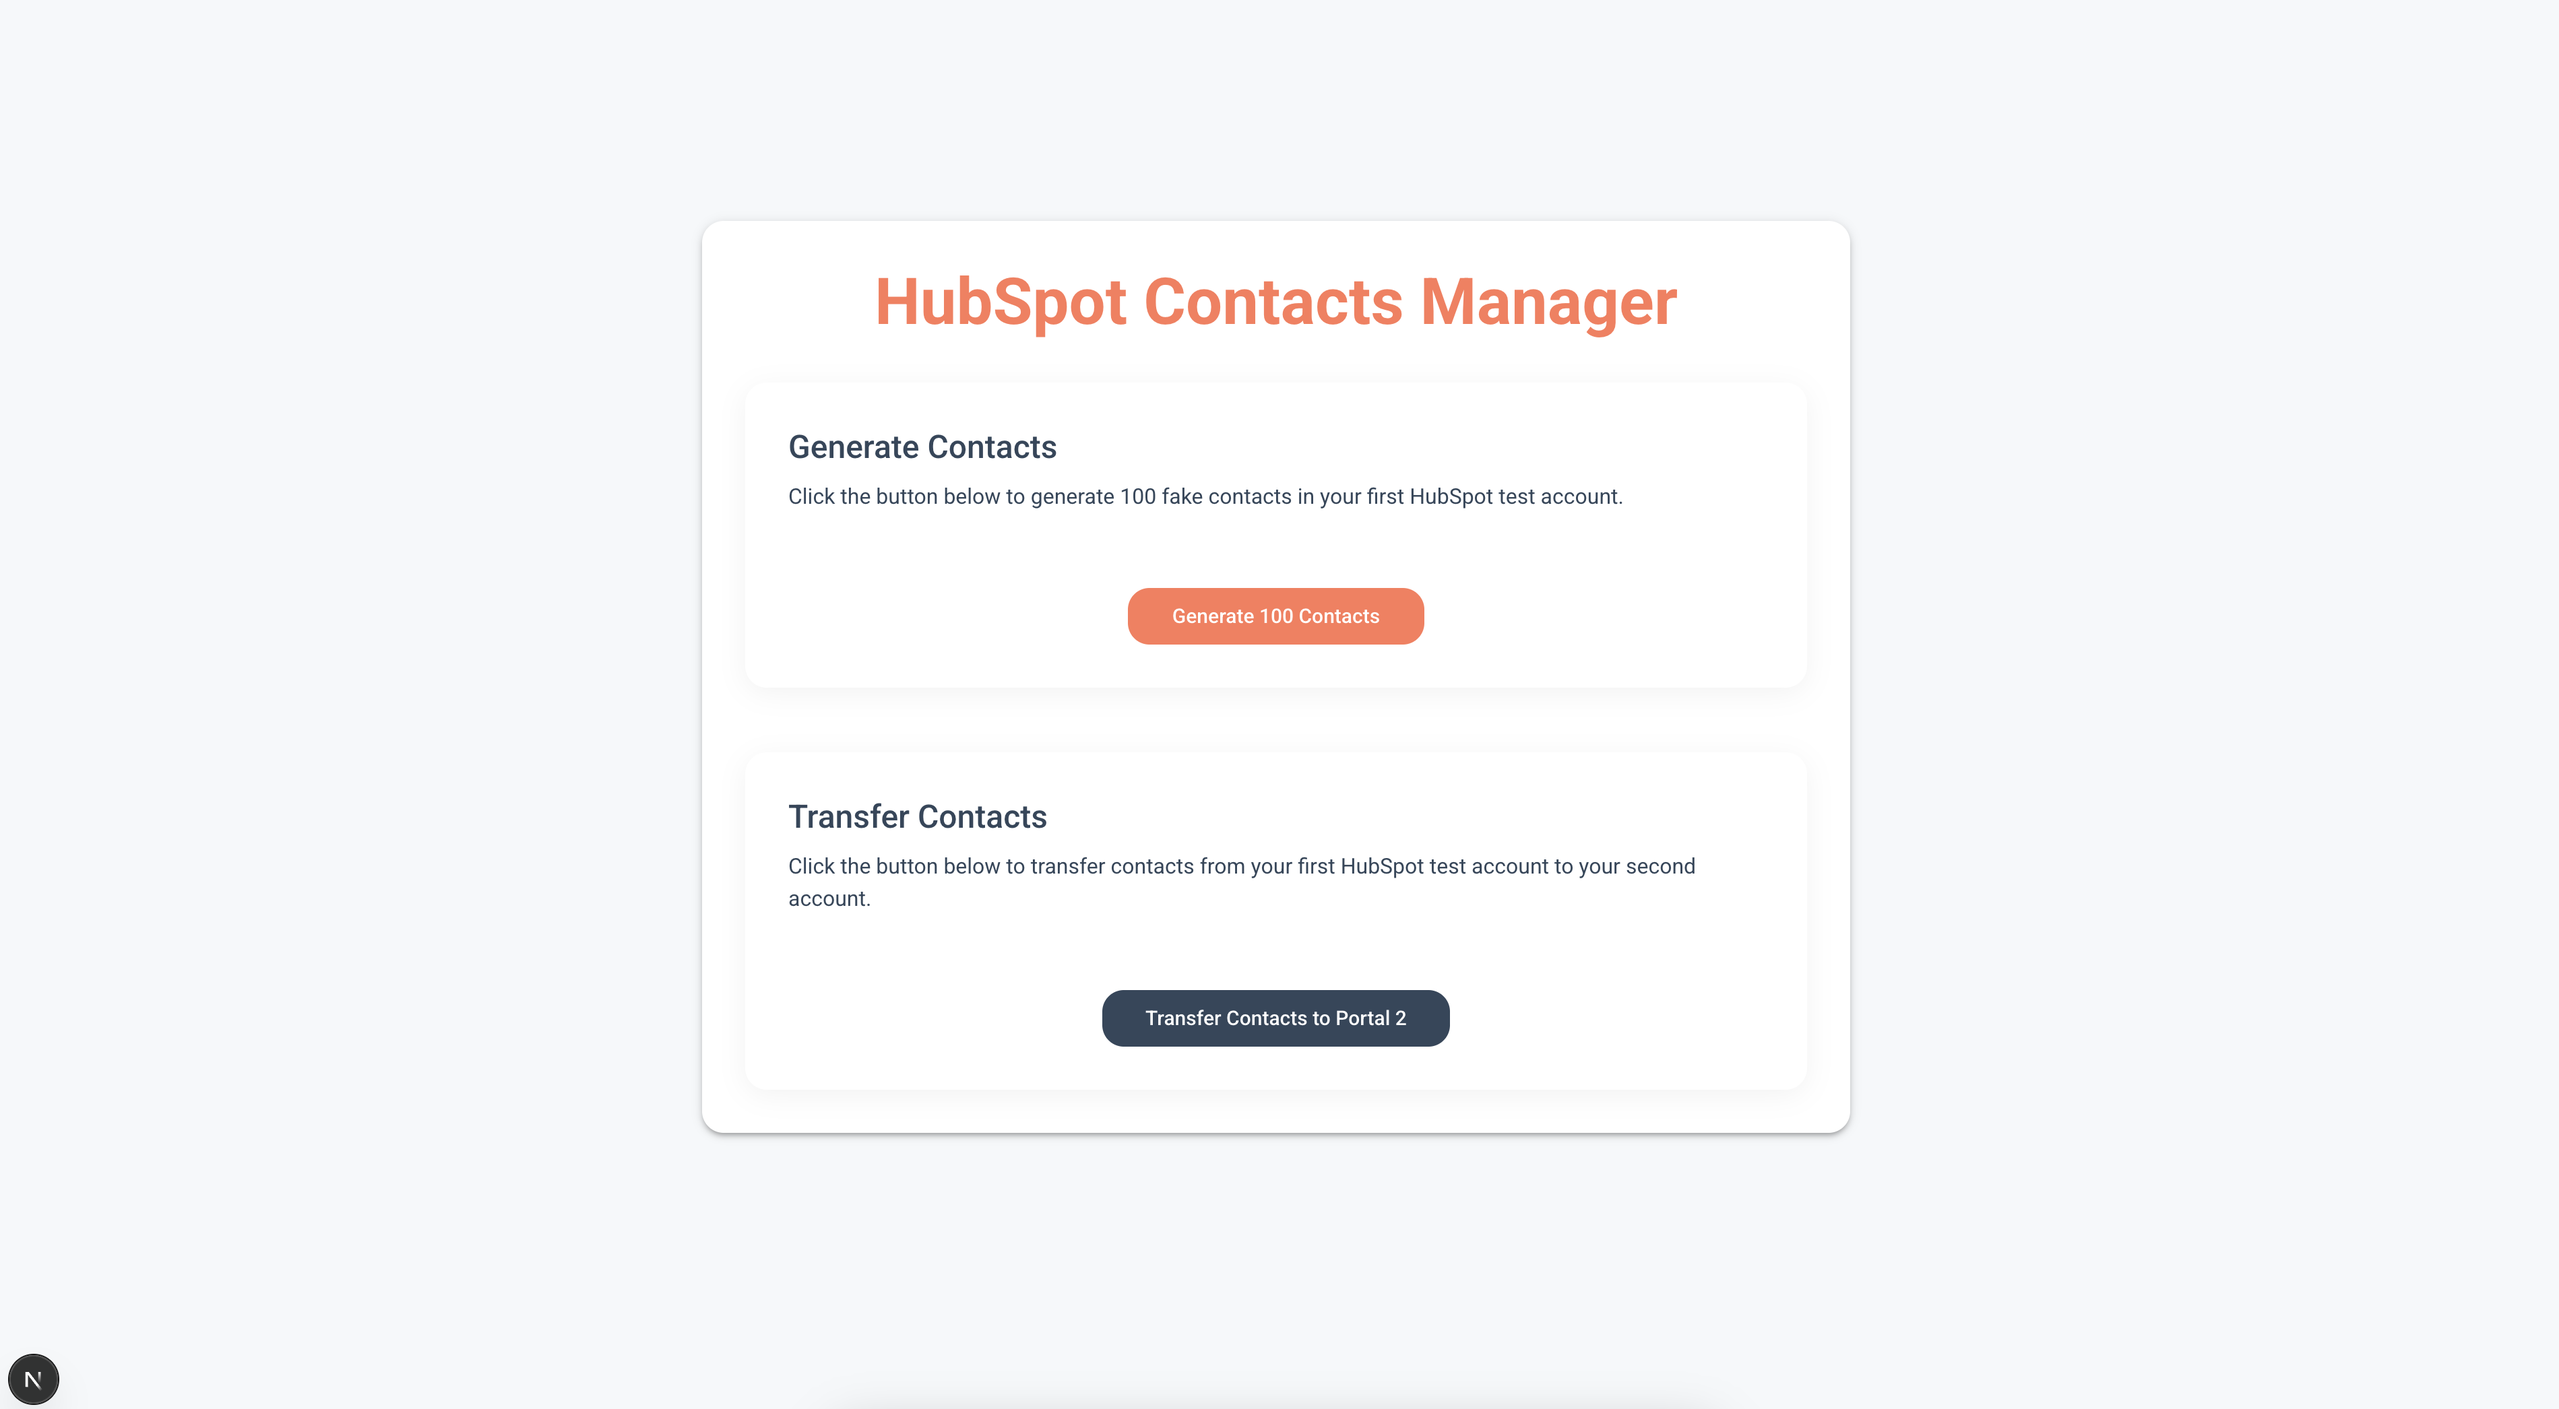
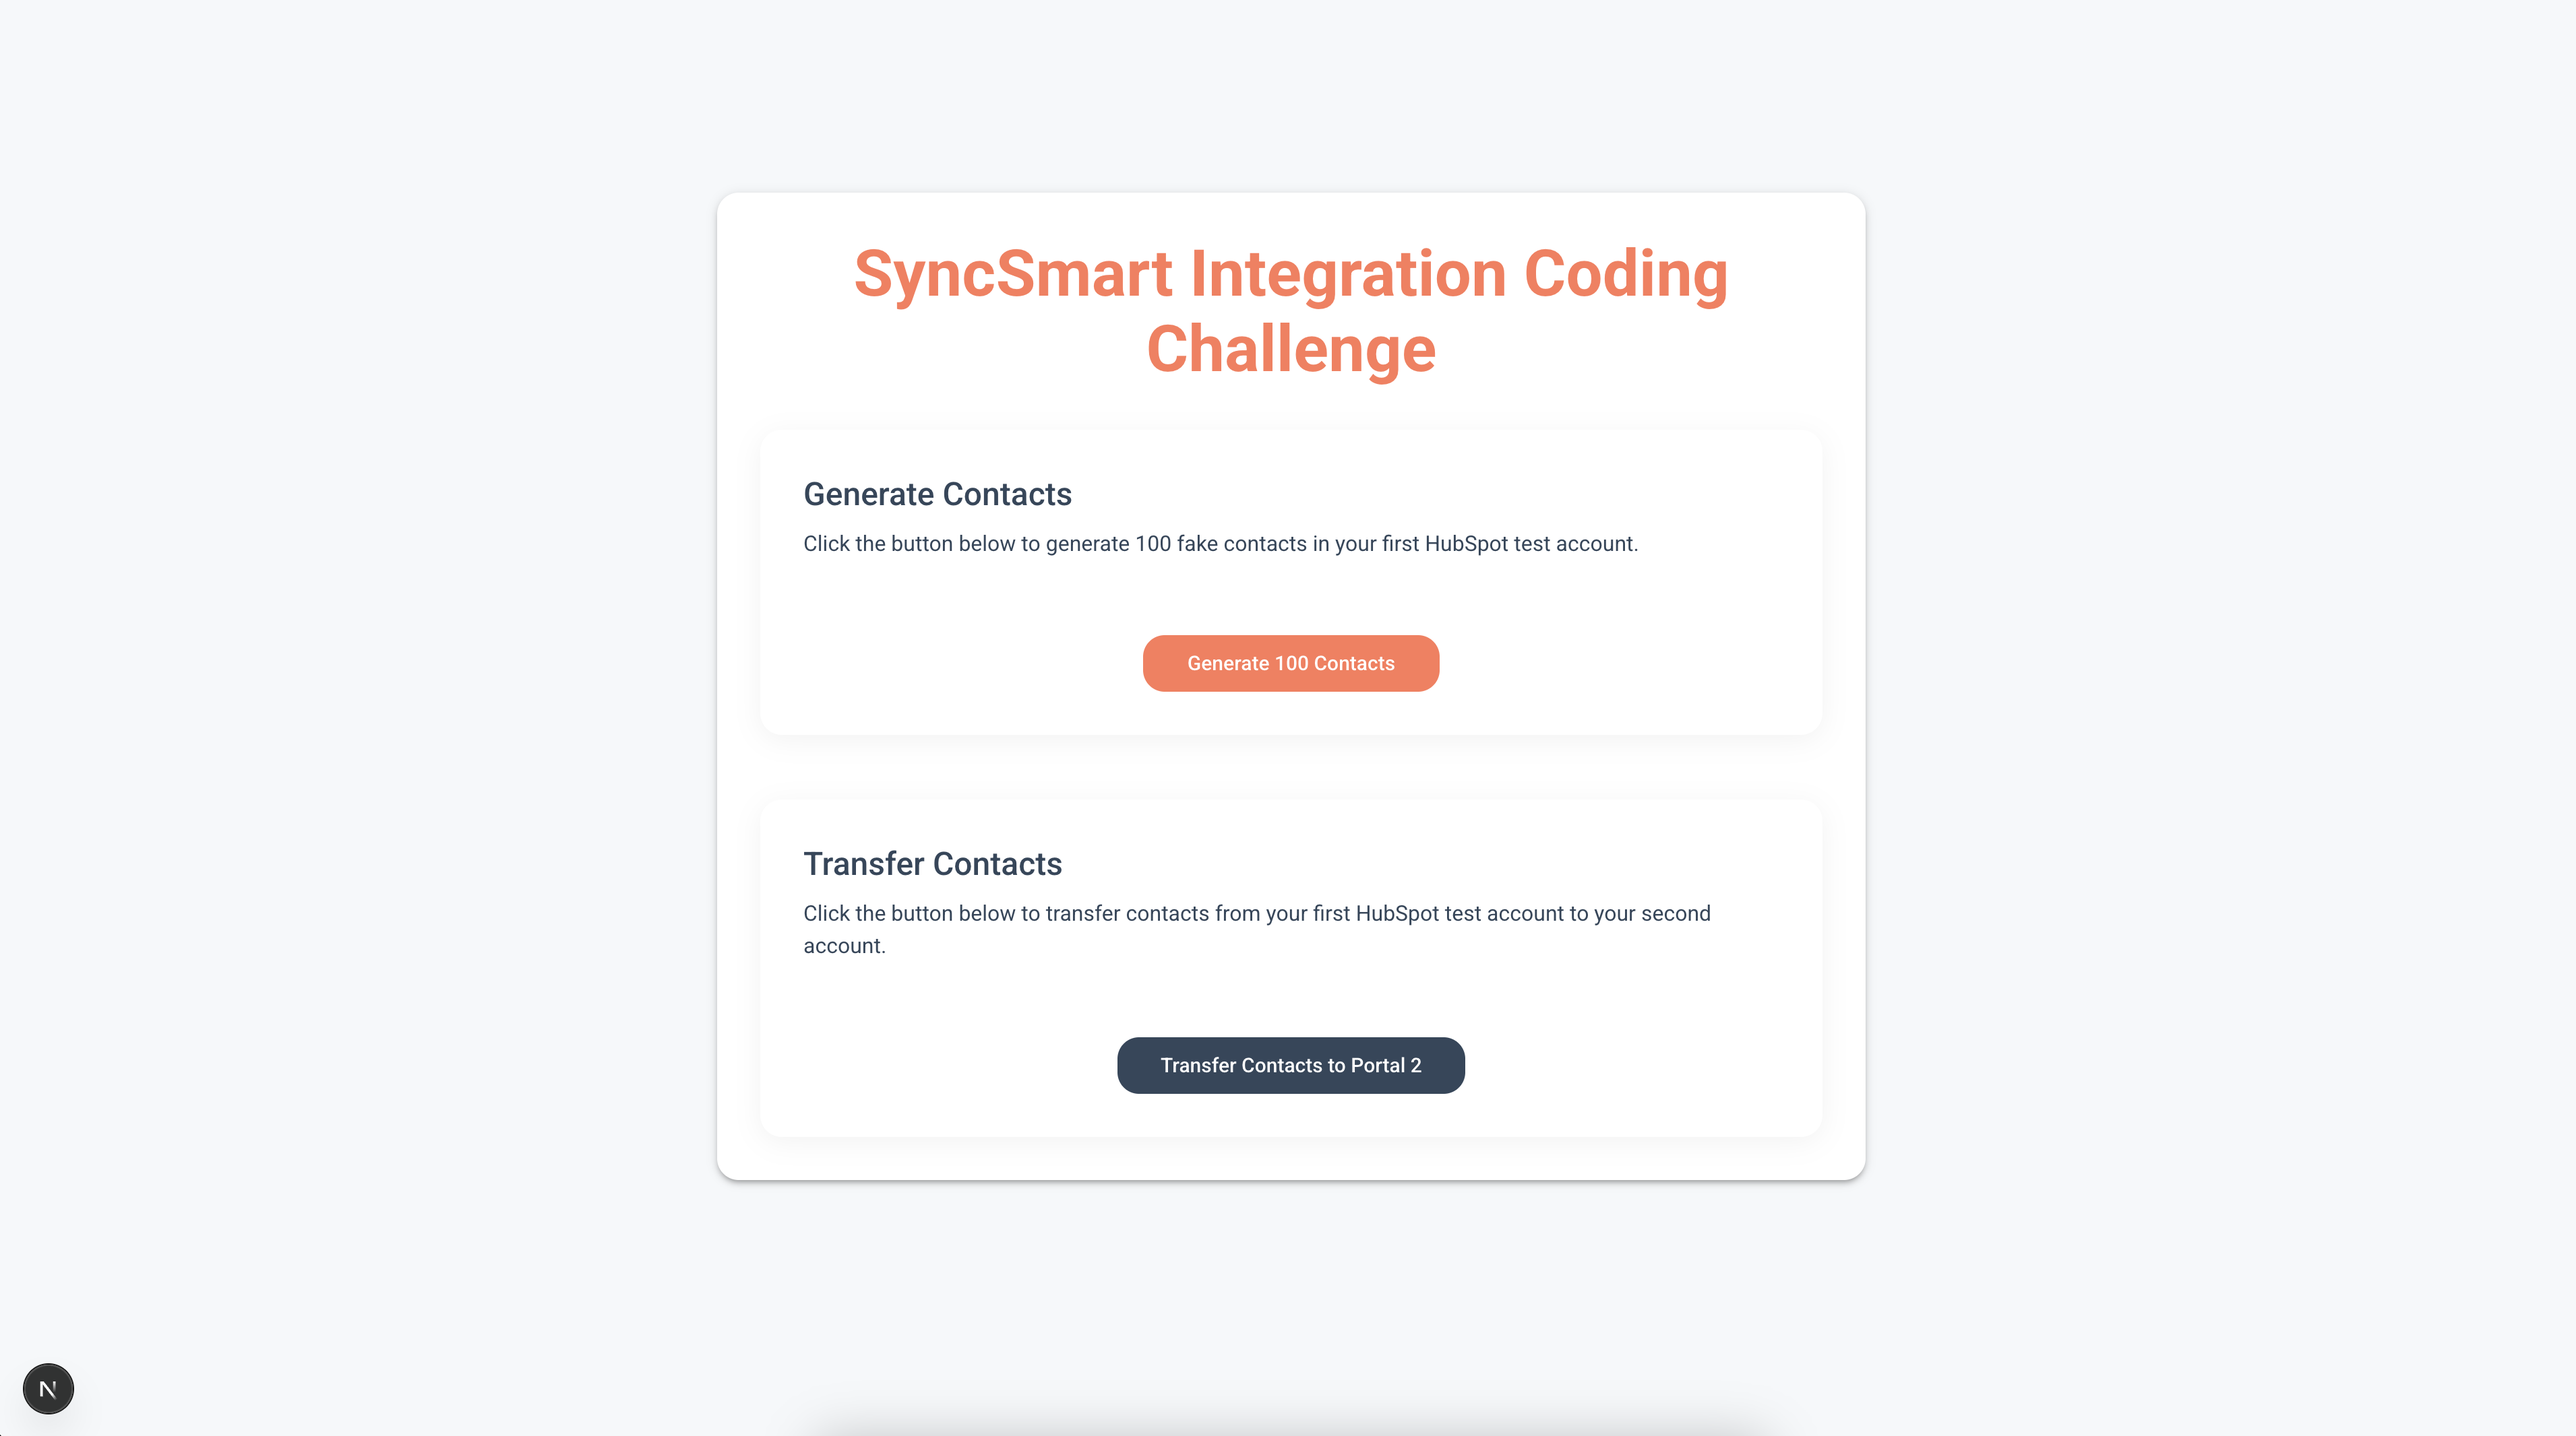
changed name to SyncSmart Integration Coding Challenge

diff --git a/src/pages/generate-contacts.tsx b/src/pages/generate-contacts.tsx
@@ -119,7 +119,7 @@ export default function GenerateContacts() {
             color="primary"
             sx={{ mb: 4, fontWeight: "bold" }}
           >
-            HubSpot Contacts Manager
+            SyncSmart Integration Coding Challenge
           </Typography>
 
           <Stack spacing={6}>

diff --git a/README.md b/README.md
@@ -1,4 +1,4 @@
-# HubSpot Portal Integration
+# SyncSmart Integration Coding Challenge
 
 A Next.js application that allows for seamless data transfer between HubSpot portals. This tool demonstrates the power of the HubSpot API for cross-portal contact management.
 
